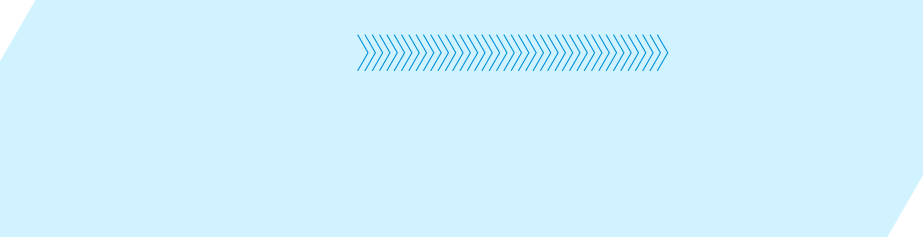
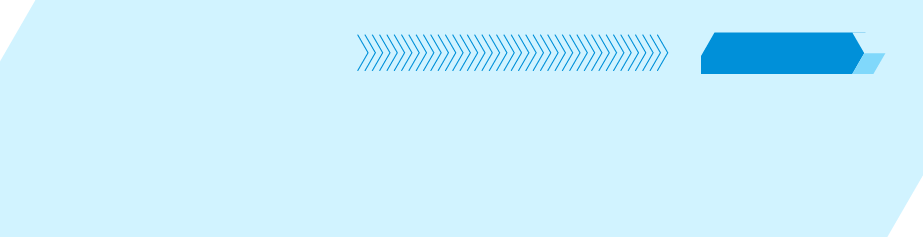
更新样式
更新样式

Changed region(s): [[0.7584, 0.1181, 0.9707, 0.3249]]

diff --git a/src/components/button-avatar6/button-avatar6.vue b/src/components/button-avatar6/button-avatar6.vue
@@ -14,7 +14,6 @@
       <span class="text">{{ rankText }}</span>
     </view>
 		<view>
-			<img class="details" src="/static/image/button-details.png" mode="widthFix"/>
 			<view class="text2">查看战绩</view>
 		</view>
 			<img class="placeholder" src="https://via.placeholder.com/132x83" />
@@ -71,23 +70,25 @@ export default class Template extends Vue {
     font-weight bold
     .text
       font-size 28upx
-      margin-left 15upx
+      margin-left -43upx
+      margin-top -9upx
     .text1
       font-size 22upx
   .score
     position absolute
-    left 320upx
-    top 97upx
+    left 243upx
+    top 87upx
     color white
     z-index 1
     font-style italic
     font-family Alibaba PuHuiTi
+		font-size 22upx
 	.placeholder
     position absolute
     width 144upx 
     height 86upx 
     top 0upx
-    left 256upx
+    left 168upx
     clip-path polygon(35% 0, 100% 0%, 65% 100%, 0 100%)
   .title
     position absolute
@@ -100,7 +101,7 @@ export default class Template extends Vue {
     font-family Alibaba PuHuiTi
   .rank-info
     position absolute
-    left 159upx
+    left 80upx
     top -3upx
     color var(--text-primary)
     z-index 1
@@ -112,17 +113,10 @@ export default class Template extends Vue {
     .text
       font-family Gotham-Bold
       font-size 23upx
-      margin-left 4upx
-	.details
-		position absolute
-		left 578upx
-		width 119upx
-		height 38upx
-		top 94upx
 	.text2
 		position absolute
-		left 593upx
-		top 94upx
+		left 457upx
+		top 89upx
 		font-size 19upx
 		color #FFFFFF
 	.Line_1_1

diff --git a/src/components/button-rank3/button-rank3.vue b/src/components/button-rank3/button-rank3.vue
@@ -2,11 +2,8 @@
   <view class="button-rank3" @click="$emit('click')">
 		<view>
 			<img class="img" src="/static/image/button-rank3.png" mode="widthFix" />
-			<img class="details" src="/static/image/button-details.png"/>
-			<view class="info2">
 				<view class="text">查看详情</view>
 			</view>
-		</view>
     <view class="info">
       <view>项目: {{ _.get(item, "payments.0.title").substr(0, 7) }} </view>
       <view>时间: {{ item.date }}  </view>
@@ -14,13 +11,12 @@
 				&nbsp{{ item.checkInAt.substr(0, 5) }}&nbsp6人场
 			</view>
 			<view class="status2"> 
-			  <view class="text2">成绩：</view>
-			  <view >5:0</view>
-			<view>
-    </view>
-		
+				<view style="margin-left: -95upx;">成绩：</view>
+				<view >5:0</view>
 			</view>
 		</view>
+    </view>
+		
   </view>
 </template>
 <script lang="ts">
@@ -38,15 +34,16 @@ export default class Template extends Vue {
 <style lang="stylus" scoped>
 .button-rank3
   position relative
-  display flex
+  display inline-block
   align-items center
   justify-content center
   text-align left
   .img
     width 607upx
+		margin-left 55upx
   .info
     position absolute
-    left 110upx
+    left 33upx
     top 13upx
     font-size 28upx
     font-family Alibaba PuHuiTi
@@ -79,8 +76,9 @@ export default class Template extends Vue {
 	.text
 	  position absolute
 	  top 19upx
-	  left 515upx
+	  left 471upx
 	  font-size 11px
-	.text2
-	  margin-left -95upx
+	.Line_3
+	  position absolute
+		
 </style>

diff --git a/src/components/button-avatar4/button-avatar4.vue b/src/components/button-avatar4/button-avatar4.vue
@@ -1,6 +1,9 @@
 <template>
   <view class="button-avatar4" @click="$emit('click')">
-    <img class="img" src="/static/image/button-avatar4.png" mode="widthFix" />
+    <img class="img" src="/static/image/button-avatar6.png" mode="widthFix" />
+		<view>
+			<view class="text2">查看战绩</view>
+		</view>
     <view class="avatar-box">
       <img class="avatar" :src="user.avatarUrl" mode="widthFix" />
     </view>
@@ -51,7 +54,7 @@ export default class Template extends Vue {
     width 132upx
     height 83upx
     top 5upx
-    left 188upx
+    left 194upx
     background var(--primary)
     display flex
     justify-content center
@@ -75,7 +78,7 @@ export default class Template extends Vue {
   .score
     position absolute
     left 260upx
-    top 110upx
+    top 98upx
     color white
     z-index 1
     font-style italic
@@ -104,4 +107,10 @@ export default class Template extends Vue {
       font-family Gotham-Bold
       font-size 23upx
       margin-left 4upx
+		.text2
+			position absolute
+			left 522upx
+			top 102upx
+			font-size 19upx
+			color #FFFFFF
 </style>

diff --git a/src/pages/user/history.vue b/src/pages/user/history.vue
@@ -37,7 +37,7 @@
     <view class="content2">
       <border1 title="个人最佳成绩">
         <view style="padding: 20upx 0upx 13upx ">
-					<view style="color: #FFFFFF">
+					<view style="color: #FFFFFF;margin-top: 30upx;margin-left: -53upx;">
 						<button-rank3 />
 					</view>
         </view>
